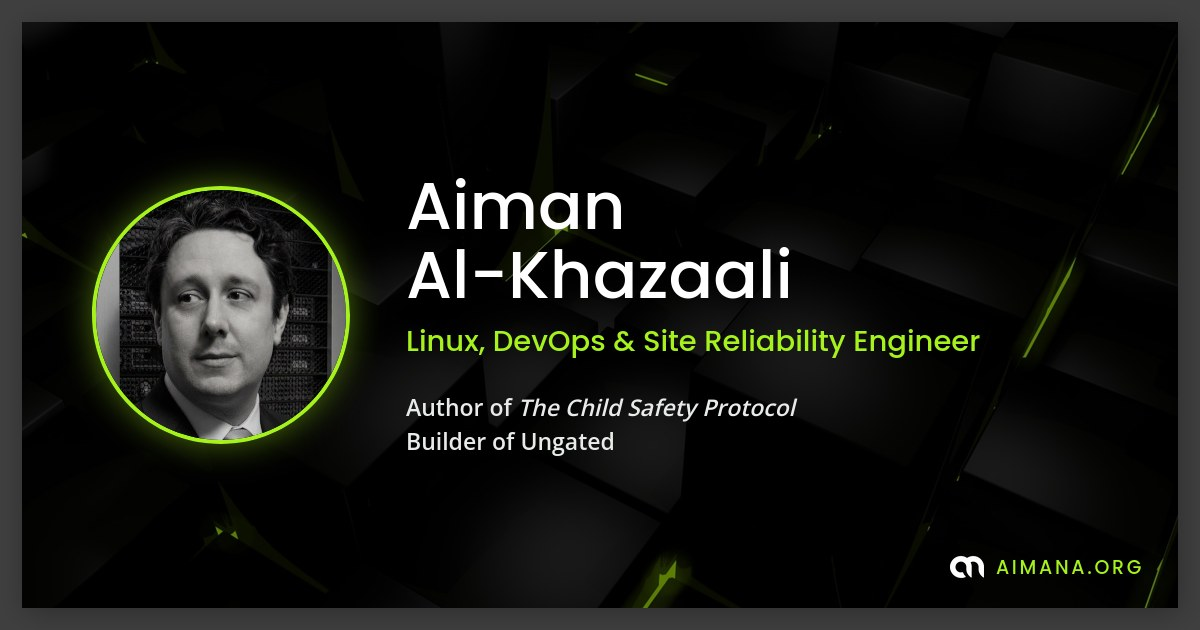
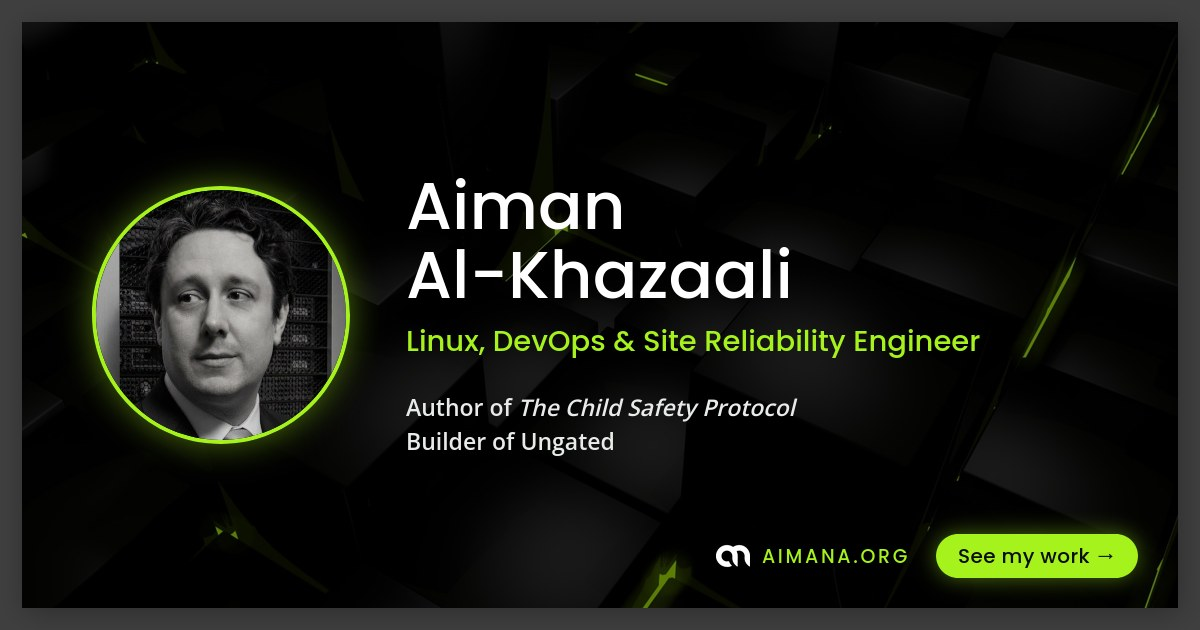
Root page: shorter title and description, CTA on OG card

Changed region(s): [[0.5858, 0.8143, 0.9558, 0.9349]]

diff --git a/index.html b/index.html
@@ -3,20 +3,20 @@
 <head>
     <meta charset="UTF-8">
     <meta name="viewport" content="width=device-width, initial-scale=1">
-    <title>Aiman Al-Khazaali | Linux, DevOps &amp; Site Reliability Engineer</title>
-    <meta name="description" content="Aiman Al-Khazaali: Linux, DevOps and site reliability engineer with nearly two decades in systems and cybersecurity. Author of The Child Safety Protocol: Online and Beyond.">
+    <title>Aiman Al-Khazaali | Linux, DevOps &amp; SRE</title>
+    <meta name="description" content="Linux, DevOps and site reliability engineer with nearly two decades in systems and security. Author of The Child Safety Protocol and builder of Ungated.">
     <link rel="canonical" href="https://aimana.org/">
 
     <meta property="og:type" content="website">
     <meta property="og:site_name" content="Aiman Al-Khazaali">
     <meta property="og:url" content="https://aimana.org/">
     <meta property="og:title" content="Aiman Al-Khazaali | Linux, DevOps &amp; SRE">
-    <meta property="og:description" content="Nearly two decades in systems and cybersecurity. Author of The Child Safety Protocol: Online and Beyond.">
-    <meta property="og:image" content="https://aimana.org/images/og-card.jpg?v=1">
+    <meta property="og:description" content="Nearly two decades in systems and security. Author of The Child Safety Protocol and builder of Ungated.">
+    <meta property="og:image" content="https://aimana.org/images/og-card.jpg?v=2">
     <meta property="og:image:width" content="1200">
     <meta property="og:image:height" content="630">
     <meta property="og:image:alt" content="Portrait of Aiman Al-Khazaali in front of server racks. Linux, DevOps &amp; Site Reliability Engineer, author of The Child Safety Protocol, builder of Ungated.">
-    <meta name="twitter:image" content="https://aimana.org/images/og-card.jpg?v=1">
+    <meta name="twitter:image" content="https://aimana.org/images/og-card.jpg?v=2">
     <meta name="twitter:card" content="summary_large_image">
 
     <link rel="icon" href="/assets/img/favicons/favicon.ico" sizes="any">
